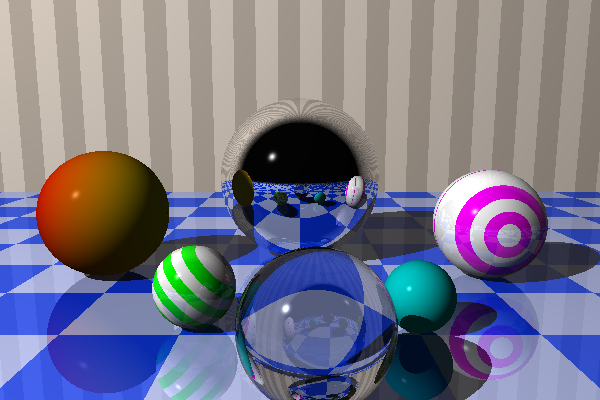
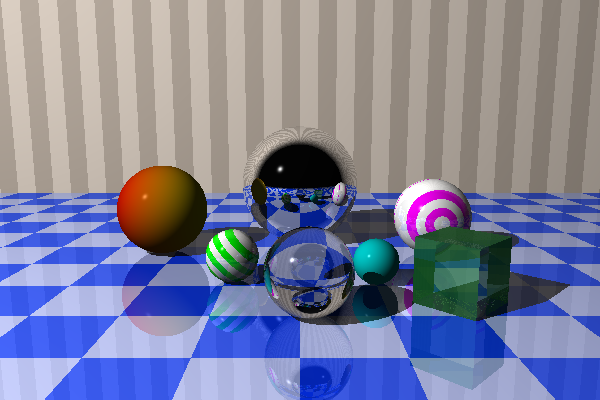
Add glass cube in scene, move camera back

diff --git a/raytracer/Simulation.cpp b/raytracer/Simulation.cpp
@@ -303,13 +303,32 @@ void simulate_reflections() {
     glass_sphere.m_material.transparency = 0.9f;
     glass_sphere.m_material.refractive_index = 1.5f;
 
+    // Green glass cube front right, turned 45° about y so an edge faces the camera. Refracted light isn't
+    // tinted by the material, so the green comes from the surface colour; it needs more diffuse than the
+    // clear glass sphere to show, and correspondingly a bit less transparency
+    Cube glass_cube{Cube::make_cube()};
+    glass_cube.set_transform(multiply(translation<double>(1.9, 0.4, -2.6),
+                                      multiply(rotation_y(pi_v<double> / 4), scale<double>(0.4, 0.4, 0.4))));
+    glass_cube.m_material.colour = Colour{.r = 0.1f, .g = 0.6f, .b = 0.2f};
+    glass_cube.m_material.ambient = 0.1f;
+    glass_cube.m_material.diffuse = 0.3f;
+    glass_cube.m_material.specular = 1.0f;
+    glass_cube.m_material.shininess = 300.0f;
+    glass_cube.m_material.reflective = 0.5f;
+    glass_cube.m_material.transparency = 0.7f;
+    glass_cube.m_material.refractive_index = 1.5f;
+
     World world;
-    world.objects = {floor, backdrop, mirror, gradient_sphere, ring_sphere, striped_sphere, plain_sphere, glass_sphere};
+    world.objects = {
+        floor, backdrop, mirror, gradient_sphere, ring_sphere, striped_sphere, plain_sphere, glass_sphere, glass_cube
+    };
     world.light = PointLight{.position = Point{.x = -10, .y = 10, .z = -10}, .intensity = colours::white};
 
     Camera camera{.hsize = 600, .vsize = 400, .field_of_view = pi_v<double> / 3};
-    camera.transform = view_transform(Point{.x = 0, .y = 1.8f, .z = -6}, Point{.x = 0, .y = 0.8f, .z = 0},
-                                      Vector{.x = 0, .y = 1, .z = 0});
+    // pull back camera
+    constexpr Point to{.x = 0, .y = 0.8f, .z = 0};
+    constexpr Point from{to + Vector{.x = 0, .y = 1, .z = -6} * 1.4f};   // = (0, 2.2, -8.4)
+    camera.transform = view_transform(from, to, Vector{.x = 0, .y = 1, .z = 0});
 
     Canvas canvas{camera.hsize, camera.vsize};
     for (uint32_t y = 0; y < camera.vsize; ++y) {
